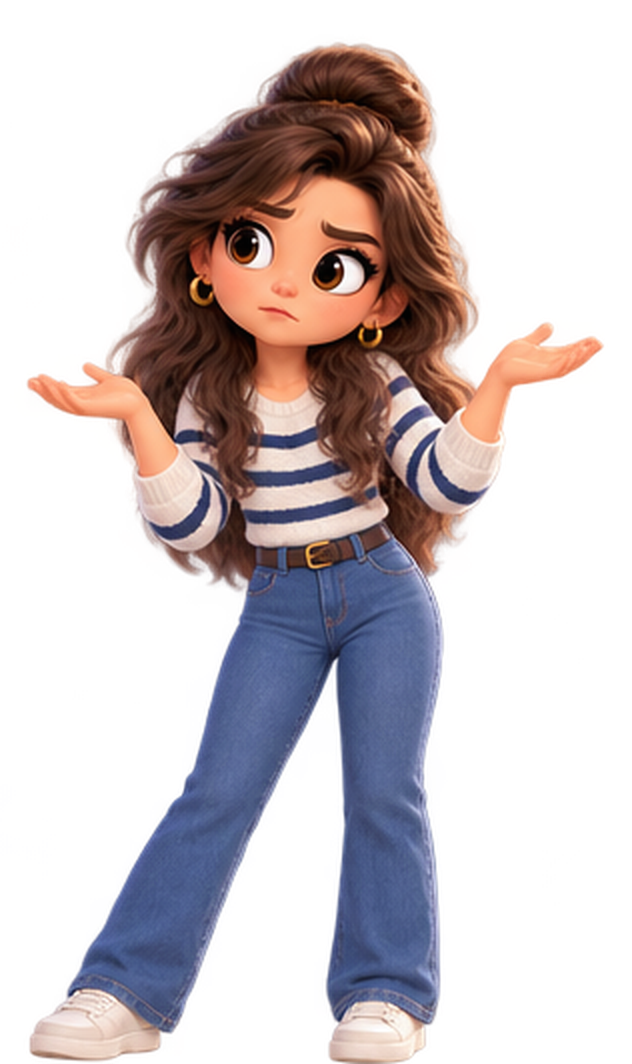
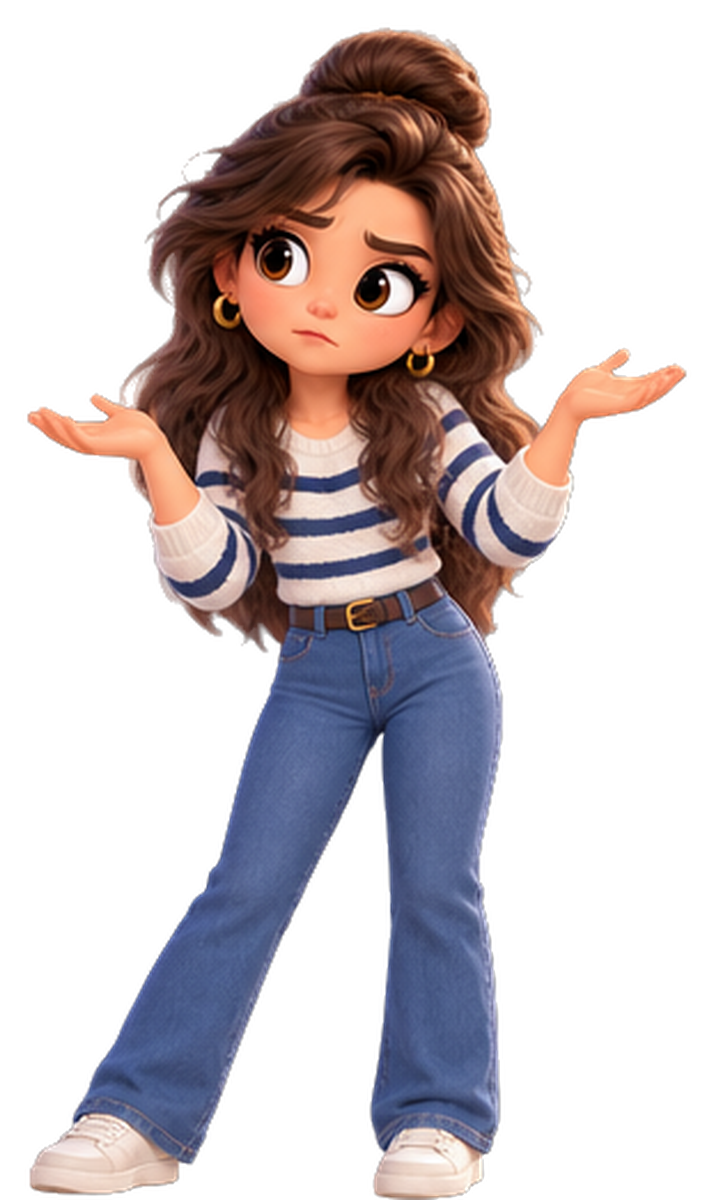
Recorta a Carolina con borde nítido y quita el texto de la portada.
Elimina el degradado y la máscara alrededor de la figura. La pose de duda queda recortada sobre fondo transparente.

diff --git a/index.html b/index.html
@@ -196,18 +196,6 @@
       align-content:end;
       min-height:min(560px,74vh);
     }
-    .hero-figure:before{
-      content:"";
-      position:absolute;
-      z-index:0;
-      left:50%;
-      bottom:6%;
-      width:min(460px,86%);
-      height:min(420px,62%);
-      transform:translateX(-50%);
-      border-radius:50%;
-      background:radial-gradient(circle,rgba(63,140,213,.2),transparent 72%);
-    }
     .hero-figure img{
       position:relative;
       z-index:1;
@@ -216,19 +204,7 @@
       max-width:100%;
       object-fit:contain;
       object-position:center bottom;
-      filter:drop-shadow(0 18px 36px rgba(31,41,51,.16));
-      -webkit-mask-image:radial-gradient(ellipse 86% 82% at 50% 48%,#000 58%,transparent 80%);
-      mask-image:radial-gradient(ellipse 86% 82% at 50% 48%,#000 58%,transparent 80%);
-    }
-    .hero-figure-name{
-      position:relative;
-      z-index:1;
-      margin-top:-6px;
-      font-size:12px;
-      font-weight:800;
-      letter-spacing:.14em;
-      text-transform:uppercase;
-      color:var(--blue);
+      filter:drop-shadow(0 16px 28px rgba(31,41,51,.18));
     }
 @keyframes beatIn {
   from { opacity: 0; transform: translateY(12px) scale(.985); }
@@ -4506,7 +4482,7 @@ html.is-time-tilt{
       </div>
     </div>
   </section>
-</div><main class="deck"><article id="slide" class="slide"></article></main><div id="presentWho" class="present-who" aria-label="Quien presenta">Cris</div><div id="presentTimer" class="presentation-timer" aria-label="Tiempo restante">10:00</div><nav class="controls"><button id="prev">←</button><span class="progress"><i id="bar"></i></span><span id="count" class="count"></span><button id="next">→</button><button id="reset" title="Reiniciar presentación" aria-label="Reiniciar presentación">↺</button><button id="full">⛶</button></nav><script>const stages=['Hipótesis','Opportunity Brief','Supuestos','Evidencia','Propuesta de valor','Modelo','Piloto'];const slides=[{stage:0,time:'0:00–0:30',k:'01 · RUTA SEGURA · PITCH v0.5',body:`<div class="hero"><div class="hero-copy"><h1>No partimos con Carolina.<br><span>La encontramos.</span></h1><p>Partimos investigando control de datos personales. Al buscar cuándo ese problema genera una consecuencia real, llegamos a un momento crítico: una evaluación hipotecaria bloqueada por información incorrecta, desactualizada o difícil de rastrear.</p></div><aside class="hero-figure"><img src="assets/carolina-duda.png" alt="Carolina, en duda"><span class="hero-figure-name">Carolina</span></aside></div>`},{stage:1,time:'0:30–1:15',k:'02 · DE LA HIPÓTESIS AL FOCO',title:'De una hipótesis amplia a un momento <span>crítico</span>',body:`<div class="focusRedesign"><div class="focusSteps"><article class="focusStep"><small>01 · HIPÓTESIS INICIAL</small><strong>Control de datos personales</strong><p>Partimos explorando una necesidad amplia: entender y ejercer control sobre los datos.</p></article><div class="focusArrow">→</div><article class="focusStep mid"><small>02 · PRIMER RECORTE</small><strong>Banca</strong><p>Buscamos un contexto donde una inconsistencia pudiera afectar una decisión concreta.</p></article><div class="focusArrow">→</div><article class="focusStep final"><small>03 · SEGMENTO FINAL</small><strong>Hipotecarios bloqueados por una inconsistencia</strong><p>El dato deja de ser abstracto cuando puede detener una operación viable.</p></article></div><div class="focusInsight">No buscamos cualquier problema de datos. <b>Buscamos el momento en que un dato incorrecto cambia una decisión real.</b></div></div>`},{stage:2,time:'1:15–1:35',k:'03 · SUPUESTOS QUE PODÍAN HACER CAER EL CASO',title:'Antes de construir, explicitamos qué tenía que ser <span>cierto</span>',body:`<div class="evidence"><div class="column"><h2>Problema y persona</h2><div class="item"><strong>01</strong><p><b>Frecuencia.</b> Que la inconsistencia ocurra con suficiente relevancia en procesos hipotecarios.</p></div><div class="item"><strong>02</strong><p><b>Urgencia.</b> Que la persona actúe cuando el dato pone en riesgo una operación concreta.</p></div><div class="item"><strong>03</strong><p><b>Confianza.</b> Que acepte apoyo de un tercero con autorización expresa y mínimo de datos.</p></div></div><div class="column blue"><h2>Banco y negocio</h2><div class="item"><strong>04</strong><p><b>Reingreso.</b> Que el banco acepte un expediente coordinado y trazable para retomar la evaluación.</p></div><div class="item"><strong>05</strong><p><b>Pago.</b> Que exista un dueño interno y disposición a pagar por continuidad, eficiencia y trazabilidad.</p></div></div><div class="question"><b>Regla:</b> la evidencia tensiona estos supuestos; lo que siga abierto pasa al piloto.</div></div>`},{stage:3,time:'1:35–2:05',k:'04 · ALLÍ NACE CAROLINA',title:'La operación sigue <span>corriendo</span> mientras el dato se corrige',body:`<div class="story"><section class="storyPanel"><h2>Una vivienda viable.<br>Una deuda ya pagada.<br>Una evaluación detenida.</h2><p>Carolina consulta a la institución que informó la deuda, revisa el registro y vuelve al banco. Cada actor resuelve una parte, pero ella no encuentra un hilo que confirme que la corrección llegó al evaluador antes de que venza la operación.</p></section><aside class="casebox"><small>EL JOB REAL</small><strong>01</strong><p>operación que debe mantenerse viva mientras el dato se corrige entre distintos actores.</p><div class="goal">Carolina no quiere “corregir un dato”. Quiere ser evaluada con información correcta antes de que su operación pierda vigencia.</div></aside></div>`},{stage:3,time:'2:05–3:15',k:'05 · EVIDENCIA Y VACÍOS',title:'La evidencia sostiene la <span>oportunidad</span>, no el negocio',body:`<div class="evidence"><div class="column"><h2>Lo que sí sostiene</h2><div class="item"><strong>249k</strong><p>Reportes con saldos desactualizados y registros ambiguos.</p></div><div class="item"><strong>1.700</strong><p>Postulantes hipotecarios con diferencias entre registros para una misma persona.</p></div><div class="item"><strong>2026</strong><p>REDEC y Ley 21.719 cambian el contexto y vuelven oportuno investigar.</p></div></div><div class="column blue"><h2>Lo que debe probar el piloto</h2><div class="item"><strong>01</strong><p>Incidencia actual del problema en hipotecarios en Chile.</p></div><div class="item"><strong>02</strong><p>Dónde persiste el quiebre entre corrección y reingreso.</p></div><div class="item"><strong>03</strong><p>Aceptación, esfuerzo operativo, dueño interno y disposición a pagar.</p></div></div><div class="question"><b>Pregunta central:</b> ¿persiste una brecha relevante entre corregir el dato y lograr que el banco retome la evaluación?</div></div>`},{stage:4,time:'3:15–4:05',k:'06 · EL QUIEBRE',title:'Corregir el dato y retomar la evaluación siguen <span>separados</span>',body:`<div><div class="flow"><article class="node"><small>01 · ORIGEN</small><b>Entidad que reportó</b><p>Corrige el dato en la fuente.</p></article><article class="node"><small>02 · REGISTRO</small><b>Registro correspondiente</b><p>Refleja la actualización cuando aplica.</p></article><article class="node"><small>03 · EVALUACIÓN</small><b>Banco evaluador</b><p>Decide si retoma el análisis.</p></article><article class="node value"><small>04 · RESULTADO</small><b>Reingreso</b><p>La operación vuelve al flujo si llega a tiempo.</p><span class="value-tag">Donde está el valor</span></article></div><div class="callout">Ruta Segura no crea otro registro. Conecta la corrección con la continuidad de la operación.</div></div>`},{stage:4,time:'4:05–4:40',k:'07 · COORDINAR SIN REEMPLAZAR',title:'La lógica de Uber: <span>coordinar</span> el sistema detrás de una sola experiencia',body:`<div class="analogy"><section class="panel"><h2>Uber Eats</h2><div class="lane"><b>Pedido</b><span>Persona</span><i></i><span>Restaurante</span></div><div class="lane"><b>Pago</b><span>Persona</span><i></i><span>Medio de pago</span></div><div class="lane"><b>Entrega</b><span>Restaurante</span><i></i><span>Repartidor</span></div></section><div class="equals">↔</div><section class="panel"><h2>Ruta Segura</h2><div class="lane"><b>Corrección</b><span>Carolina</span><i></i><span>Reportante</span></div><div class="lane"><b>Actualización</b><span>Reportante</span><i></i><span>Registro</span></div><div class="lane"><b>Reingreso</b><span>Evidencia</span><i></i><span>Banco</span></div><div class="micro"><div><small>01</small><b>Traduce y completa</b></div><div><small>02</small><b>Coordina y acompaña</b></div><div><small>03</small><b>Reúne evidencia</b></div></div></section></div>`},{stage:4,time:'4:40–5:30',k:'08 · PROTOTIPO',title:'Del relato al <span>reingreso</span>',body:`<div class="phones"><div class="phone"><span class="phoneCap">1 · RELATO Y ANTECEDENTES</span><div class="screen"><div class="notch"></div><div class="rs">▣ rutasegura</div><h3>Hablemos de lo que pasó.</h3><p>Con algunas preguntas simples prepararemos tu caso.</p><div class="bubble"><b>Cuéntame qué ocurrió con tu crédito.</b></div><div class="bubble me">Todavía aparece una deuda que pagué hace dos meses.</div><div class="bubble"><b>¿Qué institución informó la deuda?</b></div><div class="bubble me">Tarjeta Andes.</div><div class="btn">Continuar →</div></div></div><div class="phone"><span class="phoneCap">2 · SEGUIMIENTO</span><div class="screen"><div class="notch"></div><div class="rs">▣ rutasegura</div><h3>Tu caso está en investigación.</h3><p>Esperamos confirmación para verificar la corrección.</p><div class="event"><i class="dot">✓</i><div><b>Solicitud creada</b><span>Autorización registrada</span></div></div><div class="event"><i class="dot">✓</i><div><b>Antecedentes revisados</b><span>Comprobante correcto</span></div></div><div class="event"><i class="dot">✓</i><div><b>Recibida por la institución</b><span>Recepción confirmada</span></div></div><div class="event"><i class="dot wait">◷</i><div><b>En investigación</b><span>Validando actualización</span></div></div></div></div><div class="phone"><span class="phoneCap">3 · CIERRE VERIFICABLE</span><div class="screen"><div class="notch"></div><div class="rs">▣ rutasegura · banco</div><h3>Gestión de casos</h3><div class="case"><small>CASO RS–2026–0148</small><h4>Carolina</h4><p>Deuda pagada aún aparece en el informe.</p><div class="ok">✓ Resolución verificada<br><span style="font-weight:400">La persona ya fue informada.</span></div></div></div></div></div>`},{stage:4,time:'5:30–6:15',k:'09 · EXPERIENCIA',title:'Menos <span>fricción</span>, sin crear otro silo',body:`<div class="journeys"><div class="jrow"><div class="jlabel"><small>HOY</small><b>Sistema fragmentado</b></div><div class="phase"><b>Descubre el bloqueo</b><p>Pregunta la causa y revisa su informe.</p></div><div class="phase"><b>Busca el origen</b><p>Compara registros e identifica al reportante.</p></div><div class="phase"><b>Ingresa reclamo</b><p>Redacta otra vez y adjunta comprobantes.</p></div><div class="phase"><b>Espera y escala</b><p>Consulta, repite antecedentes y vuelve a esperar.</p></div><div class="phase"><b>Verifica y retoma</b><p>Comprueba por sí misma y pide reevaluación.</p></div></div><div class="jrow good"><div class="jlabel"><small>CON RUTA SEGURA</small><b>Una sola ruta</b></div><div class="phase"><b>Ingreso</b><p>Relata una vez y adjunta antecedentes.</p></div><div class="phase"><b>Orientación</b><p>Identifica responsable y faltantes.</p></div><div class="phase"><b>Coordinación</b><p>Expediente estructurado y trazable.</p></div><div class="phase"><b>Seguimiento</b><p>Estado, plazo y próxima acción visibles.</p></div><div class="phase value"><b>Cierre</b><p>Evidencia vinculada al reingreso.</p></div></div><div class="delta"><article><small>INGRESO</small><b>Relatar una vez</b><p>Un caso y antecedentes reutilizables.</p></article><article><small>SEGUIMIENTO</small><b>Una ruta común</b><p>Responsable, estado, plazo y próxima acción.</p></article><article class="value"><small>CIERRE</small><b>Evidencia para reingresar</b><p>La corrección se conecta con la continuidad.</p><span class="value-tag">Donde está el valor</span></article></div></div>`},{stage:5,time:'7:05–7:30',k:'10 · MODELO DE MONETIZACIÓN',title:'B2B2C: Carolina usa; el banco <span>paga</span>',body:`<div class="pilot"><section class="pilotbox" style="background:var(--navy);color:#fff;border:0"><small style="color:#B9DDF8;font-weight:900">MODELO PROPUESTO</small><h2 style="font-size:58px;margin:18px 0">B2B2C</h2><p style="color:#D5E0E7">Para Carolina el servicio es gratuito. Hipótesis de comprador: Crédito Hipotecario. El banco paga solo si continuidad, eficiencia y trazabilidad superan el costo y la complejidad añadida.</p></section><div class="pricing"><div class="price"><span>01</span><div><b>Implementación inicial</b><p>Configuración, seguridad e integración.</p></div></div><div class="price"><span>02</span><div><b>Suscripción base</b><p>Plataforma, soporte y volumen incluido.</p></div></div><div class="price"><span>03</span><div><b>Volumen adicional</b><p>Cobro por caso gestionado, no corregido.</p></div></div></div></div>`},
+</div><main class="deck"><article id="slide" class="slide"></article></main><div id="presentWho" class="present-who" aria-label="Quien presenta">Cris</div><div id="presentTimer" class="presentation-timer" aria-label="Tiempo restante">10:00</div><nav class="controls"><button id="prev">←</button><span class="progress"><i id="bar"></i></span><span id="count" class="count"></span><button id="next">→</button><button id="reset" title="Reiniciar presentación" aria-label="Reiniciar presentación">↺</button><button id="full">⛶</button></nav><script>const stages=['Hipótesis','Opportunity Brief','Supuestos','Evidencia','Propuesta de valor','Modelo','Piloto'];const slides=[{stage:0,time:'0:00–0:30',k:'01 · RUTA SEGURA · PITCH v0.5',body:`<div class="hero"><div class="hero-copy"><h1>No partimos con Carolina.<br><span>La encontramos.</span></h1><p>Partimos investigando control de datos personales. Al buscar cuándo ese problema genera una consecuencia real, llegamos a un momento crítico: una evaluación hipotecaria bloqueada por información incorrecta, desactualizada o difícil de rastrear.</p></div><aside class="hero-figure"><img src="assets/carolina-duda.png" alt=""></aside></div>`},{stage:1,time:'0:30–1:15',k:'02 · DE LA HIPÓTESIS AL FOCO',title:'De una hipótesis amplia a un momento <span>crítico</span>',body:`<div class="focusRedesign"><div class="focusSteps"><article class="focusStep"><small>01 · HIPÓTESIS INICIAL</small><strong>Control de datos personales</strong><p>Partimos explorando una necesidad amplia: entender y ejercer control sobre los datos.</p></article><div class="focusArrow">→</div><article class="focusStep mid"><small>02 · PRIMER RECORTE</small><strong>Banca</strong><p>Buscamos un contexto donde una inconsistencia pudiera afectar una decisión concreta.</p></article><div class="focusArrow">→</div><article class="focusStep final"><small>03 · SEGMENTO FINAL</small><strong>Hipotecarios bloqueados por una inconsistencia</strong><p>El dato deja de ser abstracto cuando puede detener una operación viable.</p></article></div><div class="focusInsight">No buscamos cualquier problema de datos. <b>Buscamos el momento en que un dato incorrecto cambia una decisión real.</b></div></div>`},{stage:2,time:'1:15–1:35',k:'03 · SUPUESTOS QUE PODÍAN HACER CAER EL CASO',title:'Antes de construir, explicitamos qué tenía que ser <span>cierto</span>',body:`<div class="evidence"><div class="column"><h2>Problema y persona</h2><div class="item"><strong>01</strong><p><b>Frecuencia.</b> Que la inconsistencia ocurra con suficiente relevancia en procesos hipotecarios.</p></div><div class="item"><strong>02</strong><p><b>Urgencia.</b> Que la persona actúe cuando el dato pone en riesgo una operación concreta.</p></div><div class="item"><strong>03</strong><p><b>Confianza.</b> Que acepte apoyo de un tercero con autorización expresa y mínimo de datos.</p></div></div><div class="column blue"><h2>Banco y negocio</h2><div class="item"><strong>04</strong><p><b>Reingreso.</b> Que el banco acepte un expediente coordinado y trazable para retomar la evaluación.</p></div><div class="item"><strong>05</strong><p><b>Pago.</b> Que exista un dueño interno y disposición a pagar por continuidad, eficiencia y trazabilidad.</p></div></div><div class="question"><b>Regla:</b> la evidencia tensiona estos supuestos; lo que siga abierto pasa al piloto.</div></div>`},{stage:3,time:'1:35–2:05',k:'04 · ALLÍ NACE CAROLINA',title:'La operación sigue <span>corriendo</span> mientras el dato se corrige',body:`<div class="story"><section class="storyPanel"><h2>Una vivienda viable.<br>Una deuda ya pagada.<br>Una evaluación detenida.</h2><p>Carolina consulta a la institución que informó la deuda, revisa el registro y vuelve al banco. Cada actor resuelve una parte, pero ella no encuentra un hilo que confirme que la corrección llegó al evaluador antes de que venza la operación.</p></section><aside class="casebox"><small>EL JOB REAL</small><strong>01</strong><p>operación que debe mantenerse viva mientras el dato se corrige entre distintos actores.</p><div class="goal">Carolina no quiere “corregir un dato”. Quiere ser evaluada con información correcta antes de que su operación pierda vigencia.</div></aside></div>`},{stage:3,time:'2:05–3:15',k:'05 · EVIDENCIA Y VACÍOS',title:'La evidencia sostiene la <span>oportunidad</span>, no el negocio',body:`<div class="evidence"><div class="column"><h2>Lo que sí sostiene</h2><div class="item"><strong>249k</strong><p>Reportes con saldos desactualizados y registros ambiguos.</p></div><div class="item"><strong>1.700</strong><p>Postulantes hipotecarios con diferencias entre registros para una misma persona.</p></div><div class="item"><strong>2026</strong><p>REDEC y Ley 21.719 cambian el contexto y vuelven oportuno investigar.</p></div></div><div class="column blue"><h2>Lo que debe probar el piloto</h2><div class="item"><strong>01</strong><p>Incidencia actual del problema en hipotecarios en Chile.</p></div><div class="item"><strong>02</strong><p>Dónde persiste el quiebre entre corrección y reingreso.</p></div><div class="item"><strong>03</strong><p>Aceptación, esfuerzo operativo, dueño interno y disposición a pagar.</p></div></div><div class="question"><b>Pregunta central:</b> ¿persiste una brecha relevante entre corregir el dato y lograr que el banco retome la evaluación?</div></div>`},{stage:4,time:'3:15–4:05',k:'06 · EL QUIEBRE',title:'Corregir el dato y retomar la evaluación siguen <span>separados</span>',body:`<div><div class="flow"><article class="node"><small>01 · ORIGEN</small><b>Entidad que reportó</b><p>Corrige el dato en la fuente.</p></article><article class="node"><small>02 · REGISTRO</small><b>Registro correspondiente</b><p>Refleja la actualización cuando aplica.</p></article><article class="node"><small>03 · EVALUACIÓN</small><b>Banco evaluador</b><p>Decide si retoma el análisis.</p></article><article class="node value"><small>04 · RESULTADO</small><b>Reingreso</b><p>La operación vuelve al flujo si llega a tiempo.</p><span class="value-tag">Donde está el valor</span></article></div><div class="callout">Ruta Segura no crea otro registro. Conecta la corrección con la continuidad de la operación.</div></div>`},{stage:4,time:'4:05–4:40',k:'07 · COORDINAR SIN REEMPLAZAR',title:'La lógica de Uber: <span>coordinar</span> el sistema detrás de una sola experiencia',body:`<div class="analogy"><section class="panel"><h2>Uber Eats</h2><div class="lane"><b>Pedido</b><span>Persona</span><i></i><span>Restaurante</span></div><div class="lane"><b>Pago</b><span>Persona</span><i></i><span>Medio de pago</span></div><div class="lane"><b>Entrega</b><span>Restaurante</span><i></i><span>Repartidor</span></div></section><div class="equals">↔</div><section class="panel"><h2>Ruta Segura</h2><div class="lane"><b>Corrección</b><span>Carolina</span><i></i><span>Reportante</span></div><div class="lane"><b>Actualización</b><span>Reportante</span><i></i><span>Registro</span></div><div class="lane"><b>Reingreso</b><span>Evidencia</span><i></i><span>Banco</span></div><div class="micro"><div><small>01</small><b>Traduce y completa</b></div><div><small>02</small><b>Coordina y acompaña</b></div><div><small>03</small><b>Reúne evidencia</b></div></div></section></div>`},{stage:4,time:'4:40–5:30',k:'08 · PROTOTIPO',title:'Del relato al <span>reingreso</span>',body:`<div class="phones"><div class="phone"><span class="phoneCap">1 · RELATO Y ANTECEDENTES</span><div class="screen"><div class="notch"></div><div class="rs">▣ rutasegura</div><h3>Hablemos de lo que pasó.</h3><p>Con algunas preguntas simples prepararemos tu caso.</p><div class="bubble"><b>Cuéntame qué ocurrió con tu crédito.</b></div><div class="bubble me">Todavía aparece una deuda que pagué hace dos meses.</div><div class="bubble"><b>¿Qué institución informó la deuda?</b></div><div class="bubble me">Tarjeta Andes.</div><div class="btn">Continuar →</div></div></div><div class="phone"><span class="phoneCap">2 · SEGUIMIENTO</span><div class="screen"><div class="notch"></div><div class="rs">▣ rutasegura</div><h3>Tu caso está en investigación.</h3><p>Esperamos confirmación para verificar la corrección.</p><div class="event"><i class="dot">✓</i><div><b>Solicitud creada</b><span>Autorización registrada</span></div></div><div class="event"><i class="dot">✓</i><div><b>Antecedentes revisados</b><span>Comprobante correcto</span></div></div><div class="event"><i class="dot">✓</i><div><b>Recibida por la institución</b><span>Recepción confirmada</span></div></div><div class="event"><i class="dot wait">◷</i><div><b>En investigación</b><span>Validando actualización</span></div></div></div></div><div class="phone"><span class="phoneCap">3 · CIERRE VERIFICABLE</span><div class="screen"><div class="notch"></div><div class="rs">▣ rutasegura · banco</div><h3>Gestión de casos</h3><div class="case"><small>CASO RS–2026–0148</small><h4>Carolina</h4><p>Deuda pagada aún aparece en el informe.</p><div class="ok">✓ Resolución verificada<br><span style="font-weight:400">La persona ya fue informada.</span></div></div></div></div></div>`},{stage:4,time:'5:30–6:15',k:'09 · EXPERIENCIA',title:'Menos <span>fricción</span>, sin crear otro silo',body:`<div class="journeys"><div class="jrow"><div class="jlabel"><small>HOY</small><b>Sistema fragmentado</b></div><div class="phase"><b>Descubre el bloqueo</b><p>Pregunta la causa y revisa su informe.</p></div><div class="phase"><b>Busca el origen</b><p>Compara registros e identifica al reportante.</p></div><div class="phase"><b>Ingresa reclamo</b><p>Redacta otra vez y adjunta comprobantes.</p></div><div class="phase"><b>Espera y escala</b><p>Consulta, repite antecedentes y vuelve a esperar.</p></div><div class="phase"><b>Verifica y retoma</b><p>Comprueba por sí misma y pide reevaluación.</p></div></div><div class="jrow good"><div class="jlabel"><small>CON RUTA SEGURA</small><b>Una sola ruta</b></div><div class="phase"><b>Ingreso</b><p>Relata una vez y adjunta antecedentes.</p></div><div class="phase"><b>Orientación</b><p>Identifica responsable y faltantes.</p></div><div class="phase"><b>Coordinación</b><p>Expediente estructurado y trazable.</p></div><div class="phase"><b>Seguimiento</b><p>Estado, plazo y próxima acción visibles.</p></div><div class="phase value"><b>Cierre</b><p>Evidencia vinculada al reingreso.</p></div></div><div class="delta"><article><small>INGRESO</small><b>Relatar una vez</b><p>Un caso y antecedentes reutilizables.</p></article><article><small>SEGUIMIENTO</small><b>Una ruta común</b><p>Responsable, estado, plazo y próxima acción.</p></article><article class="value"><small>CIERRE</small><b>Evidencia para reingresar</b><p>La corrección se conecta con la continuidad.</p><span class="value-tag">Donde está el valor</span></article></div></div>`},{stage:5,time:'7:05–7:30',k:'10 · MODELO DE MONETIZACIÓN',title:'B2B2C: Carolina usa; el banco <span>paga</span>',body:`<div class="pilot"><section class="pilotbox" style="background:var(--navy);color:#fff;border:0"><small style="color:#B9DDF8;font-weight:900">MODELO PROPUESTO</small><h2 style="font-size:58px;margin:18px 0">B2B2C</h2><p style="color:#D5E0E7">Para Carolina el servicio es gratuito. Hipótesis de comprador: Crédito Hipotecario. El banco paga solo si continuidad, eficiencia y trazabilidad superan el costo y la complejidad añadida.</p></section><div class="pricing"><div class="price"><span>01</span><div><b>Implementación inicial</b><p>Configuración, seguridad e integración.</p></div></div><div class="price"><span>02</span><div><b>Suscripción base</b><p>Plataforma, soporte y volumen incluido.</p></div></div><div class="price"><span>03</span><div><b>Volumen adicional</b><p>Cobro por caso gestionado, no corregido.</p></div></div></div></div>`},
 {stage:5,time:'7:30–8:10',k:'11 · CÓMO SABREMOS QUE FUNCIONA',title:'Outcome, North Star y <span>KPIs</span> concretos',body:`<div class="value"><section class="sensitivity"><small>OUTCOME DECLARADO</small><div class="money">≥60%</div><div style="font-size:15px;line-height:1.45;color:#D5E0E7">de solicitudes de rectificación para trámites hipotecarios alcanzan <b>Resolución Verificada y corrección efectiva</b> dentro de plazo.</div><div style="margin-top:24px;padding-top:16px;border-top:1px solid #44545F;font-size:12px;line-height:1.4"><b style="color:#8CC4F5">NORTH STAR:</b> % que obtiene Resolución Verificada antes de que caduque su evaluación crediticia.</div></section><div class="pricing kpiPricing"><div class="price"><span>+30%</span><div><b>KPI de comportamiento · hipótesis</b><p>Solicitudes completas y correctamente dirigidas al primer intento.</p></div></div><div class="price"><span>+25%</span><div><b>KPI de negocio · hipótesis</b><p>Casos iniciados que alcanzan Resolución Verificada dentro del plazo.</p></div></div><div class="price"><span>↓</span><div><b>KPI operativo</b><p>Días desde detección del error hasta actualización efectiva en el sistema evaluador.</p></div></div></div></div>`},
 {stage:5,time:'8:10–8:30',k:'12 · VALOR PARA EL BANCO',title:'¿Por qué un banco <span>pagaría</span> por Ruta Segura?',body:`<div><div class="valueCards"><article style="background:#F5FAFF;border-color:#CFE2F6"><small>MENOR CARGA OPERATIVA</small><b>Menos contactos y reprocesos</b><p>Reduce clasificación manual, derivaciones y reconstrucción de antecedentes entre canales.</p></article><article style="background:#F5FAFF;border-color:#CFE2F6"><small>MÁS OPERACIONES VIABLES</small><b>Más continuidad hipotecaria</b><p>Busca evitar que una operación potencialmente aprobable se caiga solo porque una corrección no llegó a tiempo.</p></article><article style="background:#F5FAFF;border-color:#CFE2F6"><small>MAYOR TRAZABILIDAD</small><b>Un expediente verificable</b><p>Conecta corrección, actualización y reingreso en una sola ruta de evidencia.</p></article></div><div class="thesis" style="margin-top:22px;text-align:center;font-size:clamp(18px,1.7vw,27px);padding:24px 28px"><b>El banco no paga por corregir datos.</b><br>Paga por recuperar continuidad en operaciones que todavía pueden concretarse.</div><div style="margin-top:12px;text-align:center;color:var(--muted);font-size:12px">El impacto operativo y el ahorro económico deben validarse en el piloto.</div></div>`},
 {stage:6,time:'8:30–9:20',k:'13 · PILOTO Y ESCALA',title:'¿Cómo sabremos si el producto puede <span>escalar</span>?',body:`<div class="pilot"><div class="pricing"><div class="price"><span>01</span><div><b>1 banco</b><p>Piloto Wizard of Oz pagado.</p></div></div><div class="price"><span>02</span><div><b>6–8 semanas</b><p>Ventana para observar el flujo real.</p></div></div><div class="price"><span>03</span><div><b>20–30 casos</b><p>Casos elegibles y autorizados.</p></div></div></div><section class="pilotbox"><h2>Cuatro puertas de éxito</h2><div class="measure" style="grid-template-columns:repeat(4,1fr)"><article><strong>1</strong><b>Deseabilidad</b><p>Persona y banco usan el flujo.</p></article><article><strong>2</strong><b>Efectividad</b><p>Mejora primer intento y Resolución Verificada.</p></article><article><strong>3</strong><b>Negocio</b><p>Menos trabajo por caso + disposición a pagar.</p></article><article><strong>4</strong><b>Escala</b><p>Costo por caso baja al crecer el volumen.</p></article></div><div class="callout" style="margin-top:14px"><b>GO de escala:</b> continuidad ↑ + costo por caso ↓ + disposición a pagar confirmada. Los umbrales se acuerdan antes del piloto.</div></section></div>`},
